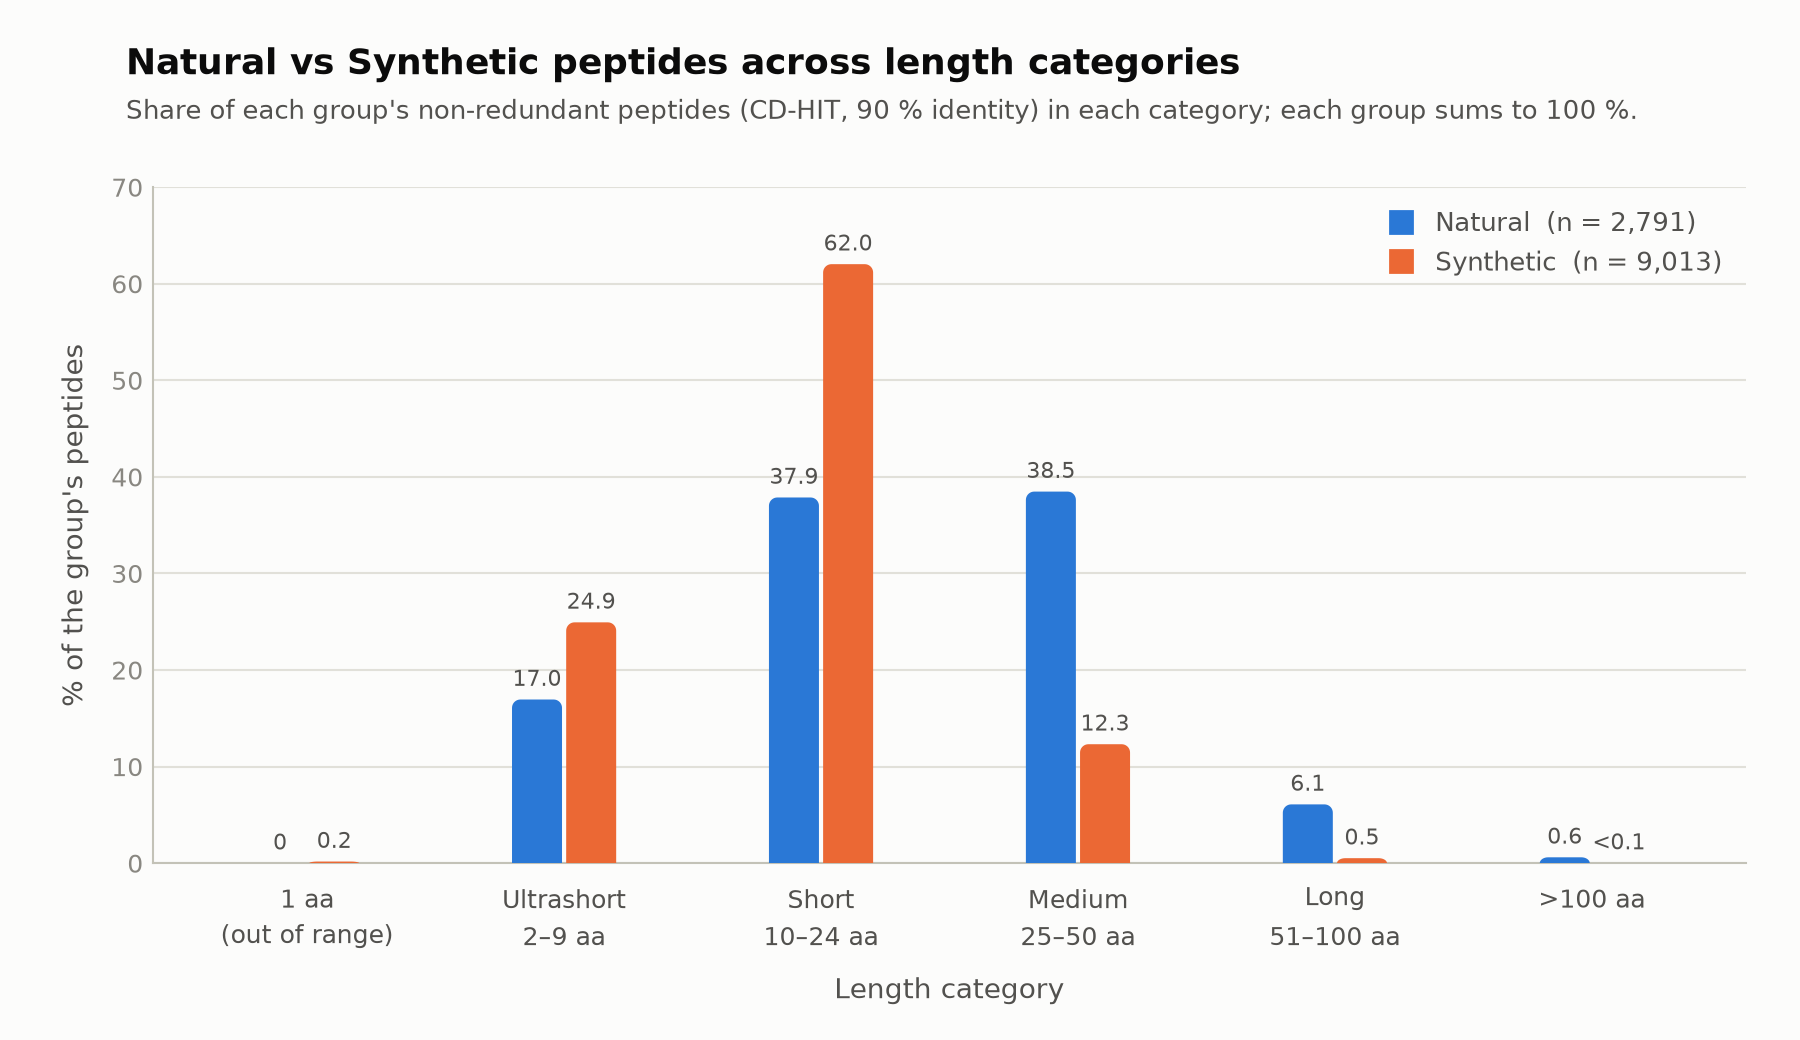
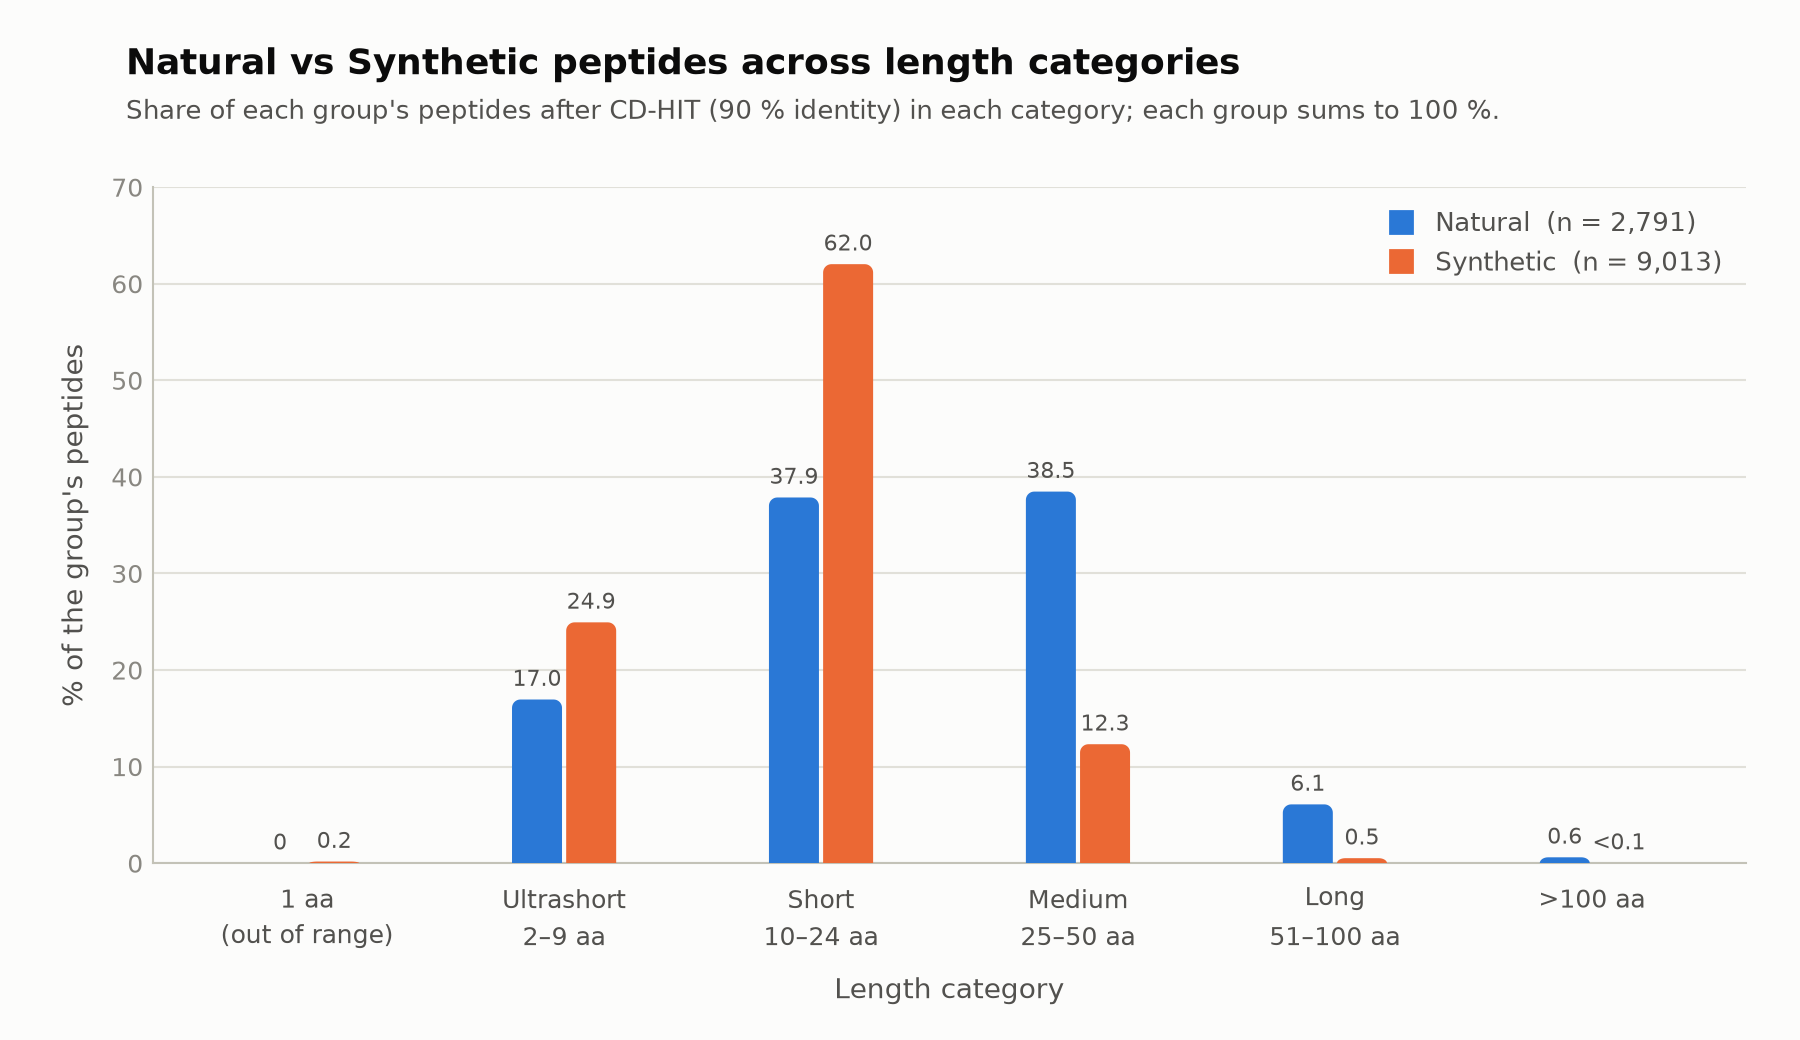
Drop "non-redundant" wording from deliverables; add smooth lines to length histogram
- remove the phrase "non-redundant" from the deliverables (README, script docstrings,
  figure titles/subtitles) and from the FASTA file names; figures and docs now say
  "after CD-HIT (90 % identity)"
- rename deliverables/fasta/amp{,_natural,_synthetic}_nonredundant.fasta to
  amp{,_natural,_synthetic}_cdhit90.fasta (content unchanged)
- overlapping length histogram: add a smooth line per group (Gaussian kernel density,
  bandwidth 3 aa, mirrored at the 1-aa edge, area 100 % so it matches the bars);
  same for the counts version

Claude-Session: https://claude.ai/code/session_019Wfgn7NcVKKkNa5Rrq4md6

Changed region(s): [[0.2489, 0.0923, 0.9022, 0.1231]]

diff --git a/deliverables/scripts/02_make_figures.py b/deliverables/scripts/02_make_figures.py
@@ -1,7 +1,7 @@
-"""Deliverable step 2 - length figures for the non-redundant AMP dataset (run 01_remove_redundancy.py first).
+"""Deliverable step 2 - length figures for the AMP dataset after CD-HIT, 90 % identity (run 01_remove_redundancy.py first).
 
 Reads  deliverables/tables/peptide_metadata.csv
-Writes deliverables/figures/length_histogram_overlap.png         3 overlapping histograms, each as % of its own group
+Writes deliverables/figures/length_histogram_overlap.png         3 overlapping histograms + smooth lines, each as % of its group
        deliverables/figures/length_histogram_overlap_counts.png  same, as peptide counts
        deliverables/figures/length_category_fraction_bar.png     share of Natural / Synthetic peptides per length category
        deliverables/tables/length_summary.csv                    numbers behind the histograms
@@ -17,12 +17,14 @@ matplotlib.use("Agg")
 import matplotlib.pyplot as plt
 import numpy as np
 import pandas as pd
+from matplotlib.legend_handler import HandlerTuple
 from matplotlib.lines import Line2D
 from matplotlib.patches import PathPatch, Patch
 from matplotlib.path import Path as MplPath
 
 DELIV = Path(__file__).resolve().parent.parent
 HIST_MAX = 100                      # histogram x-axis ends here; longer peptides are counted in the footnote
+SMOOTH_BW = 3.0                     # width (aa) of the Gaussian kernel behind the smooth lines
 DPI = 200
 
 SURFACE, INK, INK2, MUTED, GRID, AXIS = "#fcfcfb", "#0b0b0b", "#52514e", "#898781", "#e1e0d9", "#c3c2b7"
@@ -77,21 +79,32 @@ assert all(check[c] == n for c, n in zip(CLASS_NAMES, frac["Entire_n"]) if n > 0
 
 
 # ------------------------------------------------------------------ overlapping histogram
+def smooth_curve(lengths, x, bandwidth=SMOOTH_BW):
+    """Gaussian kernel density of the lengths on the grid x, as % of the group per 1-aa bin (the histogram's unit).
+    Mirrored at 0.5 aa, so no density leaks below the shortest possible peptide (1 aa)."""
+    values, n = np.unique(lengths, return_counts=True)
+    kernel = lambda centre: np.exp(-0.5 * ((x[:, None] - centre[None, :]) / bandwidth) ** 2)
+    density = (kernel(values) + kernel(1 - values)) @ n / (n.sum() * bandwidth * np.sqrt(2 * np.pi))
+    return 100 * density
+
+
 def histogram(filename, as_percent):
     fig, ax = plt.subplots(figsize=(9, 5.2))
-    fig.subplots_adjust(left=0.085, right=0.97, top=0.82, bottom=0.15)
+    fig.subplots_adjust(left=0.085, right=0.97, top=0.82, bottom=0.19)
     bins = np.arange(0.5, HIST_MAX + 1.5, 1)                    # one bin per amino-acid length
+    x = np.linspace(0.5, HIST_MAX, 400)
     handles = []
-    for z, (name, color) in enumerate([("Natural", NATURAL), ("Synthetic", SYNTHETIC), ("Entire dataset", INK2)], start=1):
+    for z, (name, color) in enumerate([("Entire dataset", INK2), ("Natural", NATURAL), ("Synthetic", SYNTHETIC)], start=1):
         L = groups[name]
         w = np.full(len(L), 100 / len(L)) if as_percent else None
-        if name != "Entire dataset":                                       # filled, translucent, with a 2 px outline
-            ax.hist(L, bins=bins, weights=w, histtype="stepfilled", color=color, alpha=0.40, linewidth=0, zorder=z)
-            ax.hist(L, bins=bins, weights=w, histtype="step", color=color, linewidth=1.5, zorder=z)
-            swatch = Patch(facecolor=color, alpha=0.55, edgecolor=color, linewidth=1.5)
-        else:                                                              # outline only, drawn on top
-            ax.hist(L, bins=bins, weights=w, histtype="step", color=color, linewidth=1.5, zorder=z + 1)
-            swatch = Line2D([], [], color=color, linewidth=1.5)
+        curve = smooth_curve(L, x) * (1 if as_percent else len(L) / 100)
+        if name == "Entire dataset":                                       # hairline bars (no fill) + the smooth line
+            ax.hist(L, bins=bins, weights=w, histtype="step", color=MUTED, linewidth=0.8, zorder=z)
+            swatch = Line2D([], [], color=color, linewidth=2)
+        else:                                                              # translucent bars + the smooth line
+            ax.hist(L, bins=bins, weights=w, histtype="stepfilled", color=color, alpha=0.35, linewidth=0, zorder=z)
+            swatch = (Patch(facecolor=color, alpha=0.45), Line2D([], [], color=color, linewidth=2))
+        ax.plot(x, curve, color=color, linewidth=2, solid_capstyle="round", zorder=z + 3)
         handles.append((swatch, f"{name}  (n = {len(L):,}; median {L.median():g} aa)"))
     ax.set_xlim(0, HIST_MAX)
     ax.set_xticks(range(0, HIST_MAX + 1, 10))
@@ -100,13 +113,15 @@ def histogram(filename, as_percent):
                   labelpad=8)
     ax.yaxis.set_major_formatter(matplotlib.ticker.FuncFormatter(lambda v, _: f"{v:,.0f}"))
     style_axes(ax)
-    ax.legend(*zip(*handles[::-1]), loc="upper right", frameon=False, fontsize=9.5, labelcolor=INK2, handlelength=1.6)
+    ax.legend(*zip(*handles[::-1]), loc="upper right", frameon=False, fontsize=9.5, labelcolor=INK2, handlelength=1.8,
+              handler_map={tuple: HandlerTuple(ndivide=None)})
     n_long = {k: int((v > HIST_MAX).sum()) for k, v in groups.items()}
-    fig.text(0.07, 0.035, f"Not shown: {n_long['Entire dataset']} peptides longer than {HIST_MAX} aa "
+    fig.text(0.07, 0.03, f"Smooth lines: Gaussian kernel density, bandwidth {SMOOTH_BW:g} aa (all peptides).\n"
+             f"Not shown: {n_long['Entire dataset']} peptides longer than {HIST_MAX} aa "
              f"(Natural {n_long['Natural']}, Synthetic {n_long['Synthetic']}; longest {groups['Entire dataset'].max()} aa).",
-             fontsize=8.5, color=MUTED, ha="left", va="bottom")
+             fontsize=8.5, color=MUTED, ha="left", va="bottom", linespacing=1.5)
     heading(fig, "Peptide length distribution: entire dataset vs Natural vs Synthetic",
-            "Non-redundant DBAASP peptides (CD-HIT, 90 % identity). " +
+            "DBAASP peptides after CD-HIT (90 % identity). " +
             ("Each histogram is scaled to 100 % of its own group." if as_percent else "Counts of peptides; the entire dataset is Natural + Synthetic."))
     fig.savefig(DELIV / "figures" / filename)
     plt.close(fig)
@@ -163,7 +178,7 @@ def bar_chart(filename):
               [f"Natural  (n = {n_nat:,})", f"Synthetic  (n = {n_syn:,})"], loc="upper right", frameon=False,
               fontsize=9.5, labelcolor=INK2, handletextpad=0.3)
     heading(fig, "Natural vs Synthetic peptides across length categories",
-            "Share of each group's non-redundant peptides (CD-HIT, 90 % identity) in each category; each group sums to 100 %.")
+            "Share of each group's peptides after CD-HIT (90 % identity) in each category; each group sums to 100 %.")
     fig.savefig(DELIV / "figures" / filename)
     plt.close(fig)
 

diff --git a/deliverables/scripts/01_remove_redundancy.py b/deliverables/scripts/01_remove_redundancy.py
@@ -1,24 +1,24 @@
-"""Deliverable step 1 - one non-redundant AMP dataset (Natural + Synthetic) with an exact loss count.
+"""Deliverable step 1 - one AMP dataset (Natural + Synthetic) after CD-HIT, 90 % identity, with an exact loss count.
 
 Starts from the untouched raw data (raw_data/dbaasp_datasets_corrected.zip, by_origin/*.csv) and nothing in the
 repository outside deliverables/ is modified.
 
   1. cleaning, same four rules as scripts/01_clean_datasets.py (per origin)
   2. identical sequence in Natural AND Synthetic -> keep the Natural entry
-  3. CD-HIT, >= 90 % identity, on the combined set, so the final FASTA is non-redundant as a whole
+  3. CD-HIT, >= 90 % identity, on the combined set, so the cut-off applies across Natural and Synthetic together
        cd-hit -c 0.9 -n 5 -d 0 -l 9      (peptides < 10 aa skip CD-HIT, as in scripts/02_run_cdhit.py)
      NOTE -l 9: cd-hit's default (-l 10) silently throws away every sequence of 10 aa or fewer.
      scripts/02_run_cdhit.py sent the 10-aa peptides to cd-hit with the default, so they were dropped and
      counted as "redundant". Here the number of sequences cd-hit actually read is checked against the number sent.
 
 Writes (all under deliverables/):
-  fasta/amp_nonredundant.fasta          >DBAASP_<ID>  one-line upper-case sequence, Natural + Synthetic
-  fasta/amp_natural_nonredundant.fasta  the Natural records of that file
-  fasta/amp_synthetic_nonredundant.fasta  the Synthetic records of that file
-  tables/peptide_metadata.csv           ID -> origin, length, length class, sequence
-  tables/removed_records.csv            every record lost, why, and which kept entry covers it
-  tables/redundancy_removal_summary.csv the step-by-step counts (Natural / Synthetic / Total)
-  cdhit/                                cd-hit input, output, cluster file and log
+  fasta/amp_cdhit90.fasta                >DBAASP_<ID>  one-line upper-case sequence, Natural + Synthetic
+  fasta/amp_natural_cdhit90.fasta        the Natural records of that file
+  fasta/amp_synthetic_cdhit90.fasta      the Synthetic records of that file
+  tables/peptide_metadata.csv            ID -> origin, length, length class, sequence
+  tables/removed_records.csv             every record lost, why, and which kept entry covers it
+  tables/redundancy_removal_summary.csv  the step-by-step counts (Natural / Synthetic / Total)
+  cdhit/                                 cd-hit input, output, cluster file and log
 """
 import io
 import re
@@ -157,9 +157,9 @@ def write_fasta(table, path):
             f.write(f">{h}\n{s}\n")
 
 
-write_fasta(final, DELIV / "fasta" / "amp_nonredundant.fasta")
+write_fasta(final, DELIV / "fasta" / "amp_cdhit90.fasta")
 for origin in ORIGINS:                      # the same records, split by origin (same order, same headers)
-    write_fasta(final[final["ORIGIN"] == origin], DELIV / "fasta" / f"amp_{origin.lower()}_nonredundant.fasta")
+    write_fasta(final[final["ORIGIN"] == origin], DELIV / "fasta" / f"amp_{origin.lower()}_cdhit90.fasta")
 
 meta = pd.DataFrame({"ID": final["HEADER"], "ORIGIN": final["ORIGIN"], "LENGTH": final["KEY"].str.len(),
                      "LENGTH_CLASS": final["KEY"].str.len().map(length_class), "SEQUENCE": final["KEY"]})
@@ -182,9 +182,9 @@ summary.to_csv(DELIV / "tables" / "redundancy_removal_summary.csv", index=False)
 
 # the final counts have to agree with what was written
 assert left == meta["ORIGIN"].value_counts().reindex(ORIGINS).to_dict()
-assert sum(left.values()) == len(final) == sum(1 for l in open(DELIV / "fasta" / "amp_nonredundant.fasta") if l[0] == ">")
+assert sum(left.values()) == len(final) == sum(1 for l in open(DELIV / "fasta" / "amp_cdhit90.fasta") if l[0] == ">")
 assert len(rem) + len(final) == sum(counts[o]["raw rows"] for o in ORIGINS)
-split = {o: [l.strip() for l in open(DELIV / "fasta" / f"amp_{o.lower()}_nonredundant.fasta") if l[0] == ">"]
+split = {o: [l.strip() for l in open(DELIV / "fasta" / f"amp_{o.lower()}_cdhit90.fasta") if l[0] == ">"]
          for o in ORIGINS}
 assert {o: len(h) for o, h in split.items()} == left                      # 2,791 Natural / 9,013 Synthetic
 assert sorted(split["Natural"] + split["Synthetic"]) == sorted(">" + final["HEADER"])  # together = the combined FASTA

diff --git a/deliverables/README.md b/deliverables/README.md
@@ -1,15 +1,15 @@
-# Deliverables: non-redundant DBAASP peptides (Natural + Synthetic)
+# Deliverables: DBAASP peptides after CD-HIT, 90 % identity (Natural + Synthetic)
 
-One non-redundant FASTA of all Natural and Synthetic peptides, the exact count of sequences lost on the way, and the
-length figures. Everything here is rebuilt from `../raw_data/dbaasp_datasets_corrected.zip` by the three scripts in
+One FASTA of all Natural and Synthetic peptides after CD-HIT at 90 % identity, the exact count of sequences lost on the
+way, and the length figures. Everything here is rebuilt from `../raw_data/dbaasp_datasets_corrected.zip` by the three scripts in
 `scripts/`. Nothing outside this folder is read or changed except that zip.
 
 ```
 deliverables/
-  fasta/amp_nonredundant.fasta            11,804 peptides (Natural + Synthetic), ">DBAASP_<ID>" + one-line upper-case sequence
-  fasta/amp_natural_nonredundant.fasta    the 2,791 Natural peptides of that file
-  fasta/amp_synthetic_nonredundant.fasta  the 9,013 Synthetic peptides of that file
-  figures/length_histogram_overlap.png         overlapping histograms: entire / Natural / Synthetic (each as % of its group)
+  fasta/amp_cdhit90.fasta                 11,804 peptides (Natural + Synthetic), ">DBAASP_<ID>" + one-line upper-case sequence
+  fasta/amp_natural_cdhit90.fasta         the 2,791 Natural peptides of that file
+  fasta/amp_synthetic_cdhit90.fasta       the 9,013 Synthetic peptides of that file
+  figures/length_histogram_overlap.png         overlapping histograms + smooth lines: entire / Natural / Synthetic (each as % of its group)
   figures/length_histogram_overlap_counts.png  the same with peptide counts
   figures/length_category_fraction_bar.png     share of Natural and Synthetic peptides per length category
   tables/redundancy_removal_summary.csv   step-by-step counts, Natural / Synthetic / Total
@@ -75,7 +75,7 @@ peptides. Synthetic peptides sit mostly in the Short class. The Synthetic histog
 cd-hit -i input_ge10aa.fasta -o cdhit_ge10aa.fasta -c 0.9 -n 5 -d 0 -l 9 -M 0 -T 1
 ```
 * `-c 0.9 -n 5`: 90 % identity, word size 5, as in the rest of the repository. cd-hit keeps the longest peptide of each cluster.
-* **Natural and Synthetic are clustered together**, so the single FASTA is non-redundant as a whole. When the same sequence
+* **Natural and Synthetic are clustered together**, so the 90 % cut-off applies across both groups, not within each one. When the same sequence
   is in both groups, the Natural entry is kept.
 * **Peptides shorter than 10 aa are not sent to CD-HIT**, the existing rule of `scripts/02_run_cdhit.py`.
 * **`-l 9` matters.** cd-hit's default `-l 10` silently discards every sequence of 10 aa or fewer. The script checks that
@@ -110,6 +110,9 @@ cd-hit -i input_ge10aa.fasta -o cdhit_ge10aa.fasta -c 0.9 -n 5 -d 0 -l 9 -M 0 -T
 7. **The histogram axis stops at 100 aa**; the 19 longer peptides (17 Natural, 2 Synthetic, longest 190 aa) are named in the
    figure footnote and are in the tables. The overlapping histograms are scaled to 100 % of their own group, because Natural
    (2,791) is much smaller than Synthetic (9,013); the counts version is `length_histogram_overlap_counts.png`.
+   The smooth lines are a Gaussian kernel density with a 3 aa bandwidth, mirrored at the 1 aa edge, using all peptides
+   (also those over 100 aa). Each line has an area of 100 %, so it is on the same scale as the bars. The wider the
+   bandwidth, the more the design-length spikes are averaged out; the bars underneath still show them.
 
 ## 5. Reproduce
 

diff --git a/README.md b/README.md
@@ -9,7 +9,7 @@ two of the groupings with very simple statistics and an amino-acid enrichment an
 Everything uses columns that already exist in the data. No new parameters were calculated.
 All scripts are short, numbered, and can be read from top to bottom.
 
-**Deliverables:** [`deliverables/`](deliverables/README.md) holds the single non-redundant FASTA (Natural + Synthetic),
+**Deliverables:** [`deliverables/`](deliverables/README.md) holds the single FASTA after CD-HIT at 90 % identity (Natural + Synthetic),
 the exact number of sequences lost to CD-HIT, and the length histogram and category bar chart.
 Note: that folder re-runs CD-HIT with `-l 9`. The default `-l 10` used in step 02 below silently drops all 10-aa peptides,
 so the CD-HIT counts in section 4 are slightly overstated (details in `deliverables/README.md`, section 4).
@@ -35,7 +35,7 @@ nonredundant_csv/<grouping>/<subgroup>.csv   the same non-redundant set as a tab
 fasta_files/by_length_class/<6 subgroups>/<subgroup>.fasta
                                          non-redundant FASTA files, input for Composition Profiler
                                          (fasta_files/by_origin/ was removed: the Natural and Synthetic FASTA files are now
-                                          deliverables/fasta/amp_{natural,synthetic}_nonredundant.fasta)
+                                          deliverables/fasta/amp_{natural,synthetic}_cdhit90.fasta)
 
 analysis/origin/                         Natural vs Synthetic: tables (csv) + plots (png)
 analysis/length_class/                   length class comparison: tables (csv) + plots (png)
